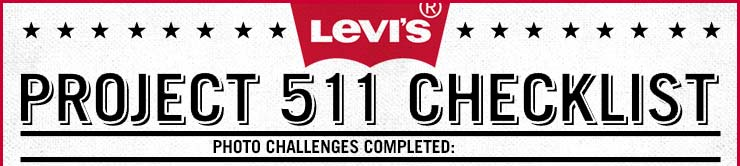
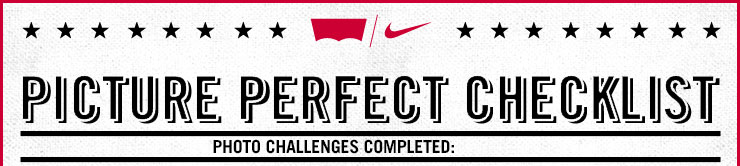
update the levis nike contest

Changed region(s): [[0.0, 0.0, 1.0, 1.0]]

diff --git a/theberrics.com/public_html/app/controllers/levis_controller.php b/theberrics.com/public_html/app/controllers/levis_controller.php
@@ -57,6 +57,8 @@ class LevisController extends DailyopsController {
 			
 		}
 		
+		$this->set("title_for_layout","Levis & Nike Present - Picture Perfect: A Photographic Scavenger Hunt ");
+		
 		
 	}
 	
